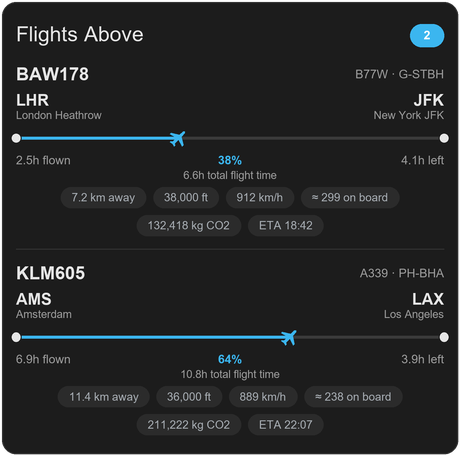
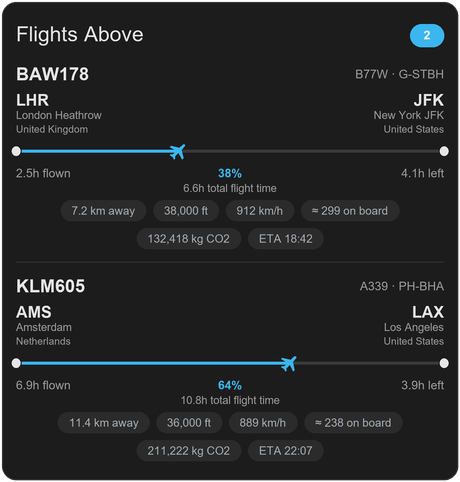
Add country under airports, true overhead count, distance sort, name capping
- Flights Overhead sensor now reports the true number of aircraft currently in
  the radius (previously capped at the number of displayed flights).
- Capture origin/destination country from adsbdb and expose as attributes; the
  card shows the country under each airport name.
- Card: cap airport blocks to half-width with ellipsis so long names no longer
  overlap; add a `sort` option (recent | distance) so `max: 1, sort: distance`
  shows only the nearest aircraft.
- README: document `sort`, country attributes, the single-flight/nearest
  examples, and clarify the overhead count. Refresh preview image.

diff --git a/custom_components/flights_above/lovelace/flights-above-card.js b/custom_components/flights_above/lovelace/flights-above-card.js
@@ -4,7 +4,7 @@
  * Dependency-free custom element; works when added as a dashboard resource.
  */
 
-const CARD_VERSION = "1.0.2";
+const CARD_VERSION = "1.0.4";
 
 const PLANE_SVG = `
 <svg viewBox="0 0 24 24" width="20" height="20" aria-hidden="true">
@@ -28,6 +28,7 @@ class FlightsAboveCard extends HTMLElement {
       flights: Array.isArray(config.flights) ? config.flights : null,
       count_entity: config.count_entity || null,
       max: config.max || 3,
+      sort: config.sort === "distance" ? "distance" : "recent",
       show_details: config.show_details !== false,
       show_empty: config.show_empty !== false,
     };
@@ -52,8 +53,10 @@ class FlightsAboveCard extends HTMLElement {
 
   _flightEntityIds() {
     if (this._config.flights) return this._config.flights;
+    // Probe every possible slot (not just `max`) so sorting can consider all
+    // available flights before we trim the list down to `max` for display.
     const ids = [];
-    for (let i = 1; i <= this._config.max; i++) {
+    for (let i = 1; i <= 6; i++) {
       ids.push(`${this._config.entity_prefix}_flight_${i}`);
     }
     return ids;
@@ -80,6 +83,8 @@ class FlightsAboveCard extends HTMLElement {
     const dest = esc(a.destination_iata || a.destination_icao || "???");
     const originName = esc(a.origin_name || "");
     const destName = esc(a.destination_name || "");
+    const originCountry = esc(a.origin_country || "");
+    const destCountry = esc(a.destination_country || "");
     const pct = this._clampPercent(a.progress_percent);
     const planePos = pct === null ? 50 : Math.max(4, Math.min(96, pct));
     const knownRoute = a.progress_percent !== null && a.progress_percent !== undefined;
@@ -122,10 +127,12 @@ class FlightsAboveCard extends HTMLElement {
           <div class="airport left">
             <div class="code">${origin}</div>
             <div class="aname">${originName}</div>
+            ${originCountry ? `<div class="acountry">${originCountry}</div>` : ""}
           </div>
           <div class="airport right">
             <div class="code">${dest}</div>
             <div class="aname">${destName}</div>
+            ${destCountry ? `<div class="acountry">${destCountry}</div>` : ""}
           </div>
         </div>
 
@@ -151,7 +158,7 @@ class FlightsAboveCard extends HTMLElement {
     if (!this._hass || !this._config) return;
 
     const entities = this._flightEntityIds();
-    const flights = entities
+    let flights = entities
       .map((id) => this._hass.states[id])
       .filter(
         (s) =>
@@ -160,6 +167,16 @@ class FlightsAboveCard extends HTMLElement {
           !["unknown", "unavailable", "None"].includes(s.state) &&
           s.attributes.in_range !== false
       );
+
+    // Optionally show the closest flights first, then trim to `max`.
+    if (this._config.sort === "distance") {
+      const d = (s) => {
+        const v = s.attributes.distance_km;
+        return v === null || v === undefined ? Infinity : Number(v);
+      };
+      flights.sort((a, b) => d(a) - d(b));
+    }
+    flights = flights.slice(0, this._config.max);
 
     const countObj = this._hass.states[this._countEntityId()];
     const count = countObj ? countObj.state : flights.length;
@@ -211,15 +228,25 @@ class FlightsAboveCard extends HTMLElement {
         font-size: 1.25rem; font-weight: 600; letter-spacing: 0.5px;
         color: var(--primary-text-color);
       }
-      .subtitle { font-size: 0.8rem; color: var(--secondary-text-color); }
-      .airports { margin-bottom: 6px; }
+      .subtitle {
+        font-size: 0.8rem; color: var(--secondary-text-color);
+        overflow: hidden; text-overflow: ellipsis; white-space: nowrap; min-width: 0;
+      }
+      .airports { margin-bottom: 6px; align-items: flex-start; gap: 10px; }
+      /* Each airport is capped to half the card so long names can't overlap. */
+      .airport { max-width: 48%; min-width: 0; }
+      .airport.right { text-align: right; }
       .airport .code {
         font-size: 1.05rem; font-weight: 700; color: var(--primary-text-color);
+        overflow: hidden; text-overflow: ellipsis; white-space: nowrap;
       }
-      .airport.right { text-align: right; }
       .airport .aname {
         font-size: 0.72rem; color: var(--secondary-text-color);
-        max-width: 45vw; overflow: hidden; text-overflow: ellipsis; white-space: nowrap;
+        overflow: hidden; text-overflow: ellipsis; white-space: nowrap;
+      }
+      .airport .acountry {
+        font-size: 0.66rem; color: var(--secondary-text-color); opacity: 0.8;
+        overflow: hidden; text-overflow: ellipsis; white-space: nowrap;
       }
       .track {
         position: relative; height: 26px; margin: 6px 6px 2px;

diff --git a/custom_components/flights_above/coordinator.py b/custom_components/flights_above/coordinator.py
@@ -250,6 +250,8 @@ class FlightsAboveCoordinator(DataUpdateCoordinator):
         self._route_cache: dict[str, tuple[dict | None, float]] = {}
         # hex -> flight dict (rolling history of recently seen flights)
         self._history: dict[str, dict] = {}
+        # True number of airborne aircraft currently inside the radius.
+        self.current_count: int = 0
 
         super().__init__(
             hass,
@@ -261,6 +263,19 @@ class FlightsAboveCoordinator(DataUpdateCoordinator):
     async def _async_update_data(self) -> list[dict]:
         aircraft = await self._fetch_aircraft()
         now = time.time()
+
+        # Count every airborne aircraft currently inside the radius, regardless
+        # of whether its route can be resolved. This is the true "flights
+        # overhead" number. Cheap position-only check, no route lookups.
+        in_range = 0
+        for ac in aircraft:
+            lat = _valid_lat(ac.get("lat"))
+            lon = _valid_lon(ac.get("lon"))
+            if lat is None or lon is None or ac.get("alt_baro") == "ground":
+                continue
+            if haversine_km(self.latitude, self.longitude, lat, lon) <= self.radius_km:
+                in_range += 1
+        self.current_count = in_range
 
         for ac in aircraft:
             flight = await self._build_flight(ac, now)
@@ -401,9 +416,11 @@ class FlightsAboveCoordinator(DataUpdateCoordinator):
             "origin_name": None,
             "origin_iata": None,
             "origin_icao": None,
+            "origin_country": None,
             "destination_name": None,
             "destination_iata": None,
             "destination_icao": None,
+            "destination_country": None,
             "hours_flown": None,
             "hours_remaining": None,
             "hours_total": None,
@@ -427,9 +444,11 @@ class FlightsAboveCoordinator(DataUpdateCoordinator):
                     "origin_name": route["origin_name"],
                     "origin_iata": route["origin_iata"],
                     "origin_icao": route["origin_icao"],
+                    "origin_country": route["origin_country"],
                     "destination_name": route["destination_name"],
                     "destination_iata": route["destination_iata"],
                     "destination_icao": route["destination_icao"],
+                    "destination_country": route["destination_country"],
                 }
             )
             self._add_progress(flight, route, lat, lon, speed_kmh)
@@ -546,11 +565,13 @@ class FlightsAboveCoordinator(DataUpdateCoordinator):
             "origin_name": _clean_text(origin.get("name")),
             "origin_iata": _clean_text(origin.get("iata_code"), 4),
             "origin_icao": _clean_text(origin.get("icao_code"), 4),
+            "origin_country": _clean_text(origin.get("country_name"), 40),
             "origin_lat": _valid_lat(origin.get("latitude")),
             "origin_lon": _valid_lon(origin.get("longitude")),
             "destination_name": _clean_text(destination.get("name")),
             "destination_iata": _clean_text(destination.get("iata_code"), 4),
             "destination_icao": _clean_text(destination.get("icao_code"), 4),
+            "destination_country": _clean_text(destination.get("country_name"), 40),
             "destination_lat": _valid_lat(destination.get("latitude")),
             "destination_lon": _valid_lon(destination.get("longitude")),
         }

diff --git a/custom_components/flights_above/sensor.py b/custom_components/flights_above/sensor.py
@@ -31,9 +31,11 @@ _FLIGHT_ATTRS = (
     "origin_name",
     "origin_iata",
     "origin_icao",
+    "origin_country",
     "destination_name",
     "destination_iata",
     "destination_icao",
+    "destination_country",
     "hours_flown",
     "hours_remaining",
     "hours_total",
@@ -95,7 +97,9 @@ class FlightsOverheadSensor(_BaseFlightsEntity):
 
     @property
     def native_value(self) -> int:
-        return len(self.coordinator.data or [])
+        # True number of aircraft currently inside the radius (not capped by
+        # how many flights are shown as individual sensors).
+        return self.coordinator.current_count
 
     @property
     def extra_state_attributes(self) -> dict:
@@ -104,6 +108,7 @@ class FlightsOverheadSensor(_BaseFlightsEntity):
             "radius_km": self.coordinator.radius_km,
             "latitude": self.coordinator.latitude,
             "longitude": self.coordinator.longitude,
+            "tracked_flights": len(flights),
             "flights": [
                 {
                     "callsign": f["callsign"],

diff --git a/README.md b/README.md
@@ -62,8 +62,9 @@ You can change the radius, count and interval any time via the integration's
 
 For an integration named "Flights Above" you get:
 
-- `sensor.flights_above_flights_overhead`: number of flights currently in range.
-  Its attributes include a `flights` list summarising each one.
+- `sensor.flights_above_flights_overhead`: the true number of aircraft currently
+  within your radius (not limited by how many flights are displayed). Its
+  attributes include a `flights` list summarising the tracked ones.
 - `sensor.flights_above_flight_1`, `_flight_2`, `_flight_3`: one per configured
   slot, ordered by most recently seen. State = callsign.
 
@@ -71,8 +72,8 @@ Each flight slot sensor exposes these attributes:
 
 | Attribute | Description |
 |---|---|
-| `origin_name` / `origin_iata` / `origin_icao` | Departure airport |
-| `destination_name` / `destination_iata` / `destination_icao` | Arrival airport |
+| `origin_name` / `origin_iata` / `origin_icao` / `origin_country` | Departure airport + country |
+| `destination_name` / `destination_iata` / `destination_icao` / `destination_country` | Arrival airport + country |
 | `hours_flown` / `hours_remaining` / `hours_total` | Estimated flight time |
 | `eta` | Estimated arrival time (ISO timestamp) |
 | `progress_percent` | How far along the route (0-100) |
@@ -147,9 +148,32 @@ entity_prefix: sensor.flights_above
 | `entity_prefix` | `sensor.flights_above` | Prefix used to find the `_flight_1…N` and `_flights_overhead` sensors. Change it if you named the integration differently. |
 | `flights` | *(auto)* | Optional explicit list of flight sensor entity ids instead of using the prefix. |
 | `count_entity` | *(auto)* | Optional explicit "flights overhead" count sensor. |
-| `max` | `3` | How many flight slots to look for when auto-deriving from the prefix. |
+| `max` | `3` | How many flights to display at once. |
+| `sort` | `recent` | Order flights by `recent` (most recently seen) or `distance` (nearest first). |
 | `show_details` | `true` | Show aircraft type / registration and the info chips. |
 | `show_empty` | `true` | Show a "No flights in range" message when the sky is empty. |
+
+Show a single flight (e.g. the nearest one):
+
+```yaml
+type: custom:flights-above-card
+title: Flights Above
+entity_prefix: sensor.flights_above
+max: 1
+show_details: true
+show_empty: true
+```
+
+Add `sort: distance` to make that single card always show the **closest** aircraft
+(by default the list is ordered by most recently seen):
+
+```yaml
+type: custom:flights-above-card
+title: Nearest flight
+entity_prefix: sensor.flights_above
+max: 1
+sort: distance
+```
 
 Example with explicit entities:
 